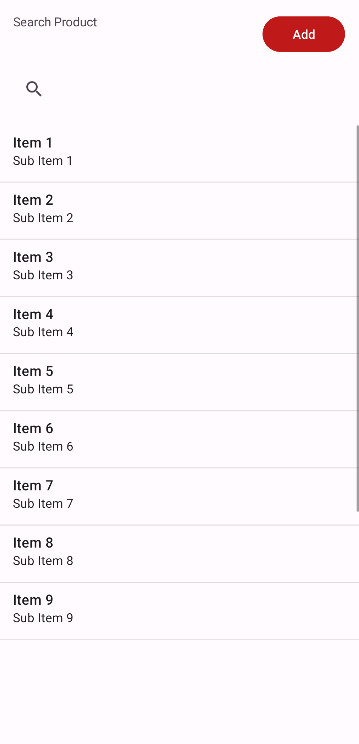
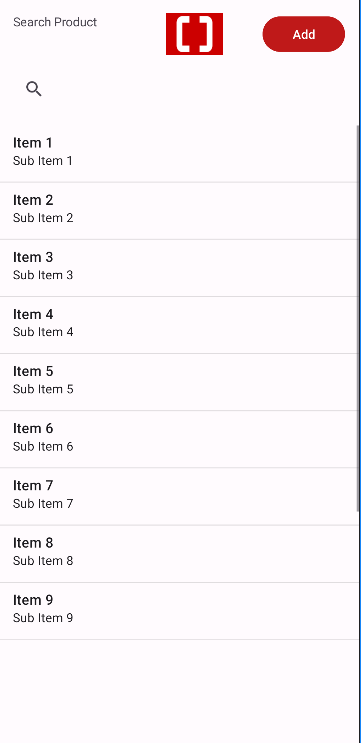
Adjusted DatabaseHelper and MainActivity.xml

diff --git a/StaplesMarineWayAssociateCompanionApp/app/src/main/java/com/example/staplesmarinewayassociatecompanionapp/MainActivity.java b/StaplesMarineWayAssociateCompanionApp/app/src/main/java/com/example/staplesmarinewayassociatecompanionapp/MainActivity.java
@@ -4,11 +4,13 @@ import androidx.appcompat.app.AppCompatActivity;
 
 import android.content.Intent;
 import android.content.SharedPreferences;
+import android.net.Uri;
 import android.os.Bundle;
 import android.view.View;
 import android.widget.AdapterView;
 import android.widget.ArrayAdapter;
 import android.widget.Button;
+import android.widget.ImageView;
 import android.widget.ListView;
 import android.widget.SearchView;
 
@@ -17,6 +19,7 @@ import com.example.staplesmarinewayassociatecompanionapp.R;
 public class MainActivity extends AppCompatActivity {
 
     Button btn_goToAdd;
+    ImageView imgbtn_goToWebsiteFromSearch;
     ListView lv_showProduct;
     SearchView sv_searchProduct;
 
@@ -31,6 +34,7 @@ public class MainActivity extends AppCompatActivity {
         databaseHelper = DatabaseHelper.getInstance(this);
 
         btn_goToAdd = findViewById(R.id.btn_goToAdd);
+        imgbtn_goToWebsiteFromSearch = findViewById(R.id.imgbtn_goToWebsiteFromSearch);
         lv_showProduct = findViewById(R.id.lv_showProduct);
         sv_searchProduct = findViewById(R.id.sv_searchProduct);
 
@@ -42,6 +46,14 @@ public class MainActivity extends AppCompatActivity {
             @Override
             public void onClick(View view) {
                 startActivity(new Intent(MainActivity.this, AddActivity.class));
+            }
+        });
+
+        imgbtn_goToWebsiteFromSearch.setOnClickListener(new View.OnClickListener() {
+            @Override
+            public void onClick(View view) {
+                Intent intent = new Intent(Intent.ACTION_VIEW, Uri.parse("https://www.staples.ca/"));
+                startActivity(intent);
             }
         });
 

diff --git a/StaplesMarineWayAssociateCompanionApp/app/src/main/java/com/example/staplesmarinewayassociatecompanionapp/DatabaseHelper.java b/StaplesMarineWayAssociateCompanionApp/app/src/main/java/com/example/staplesmarinewayassociatecompanionapp/DatabaseHelper.java
@@ -121,8 +121,10 @@ public class DatabaseHelper extends SQLiteOpenHelper {
         Cursor cursor = null;
 
         if(searchViewText.length() > 0) {
-            query = "SELECT * FROM " + PRODUCT_TABLE + " WHERE " + ITEM_NUMBER_COL + " = ? OR " + ITEM_NAME_COL + " = ?;";
-            cursor = db.rawQuery(query, new String[]{searchViewText, searchViewText});
+            //query = "SELECT * FROM " + PRODUCT_TABLE + " WHERE " + ITEM_NUMBER_COL + " = ? OR " + ITEM_NAME_COL + " = ?;";
+            //cursor = db.rawQuery(query, new String[]{searchViewText, searchViewText});
+            query = "SELECT * FROM " + PRODUCT_TABLE + " WHERE " + ITEM_NUMBER_COL + " = ? OR " + ITEM_NAME_COL + " LIKE ?;";
+            cursor = db.rawQuery(query, new String[]{searchViewText, "%" + searchViewText + "%"});
         }
         else {
             query = "SELECT * FROM " + PRODUCT_TABLE + ";";
